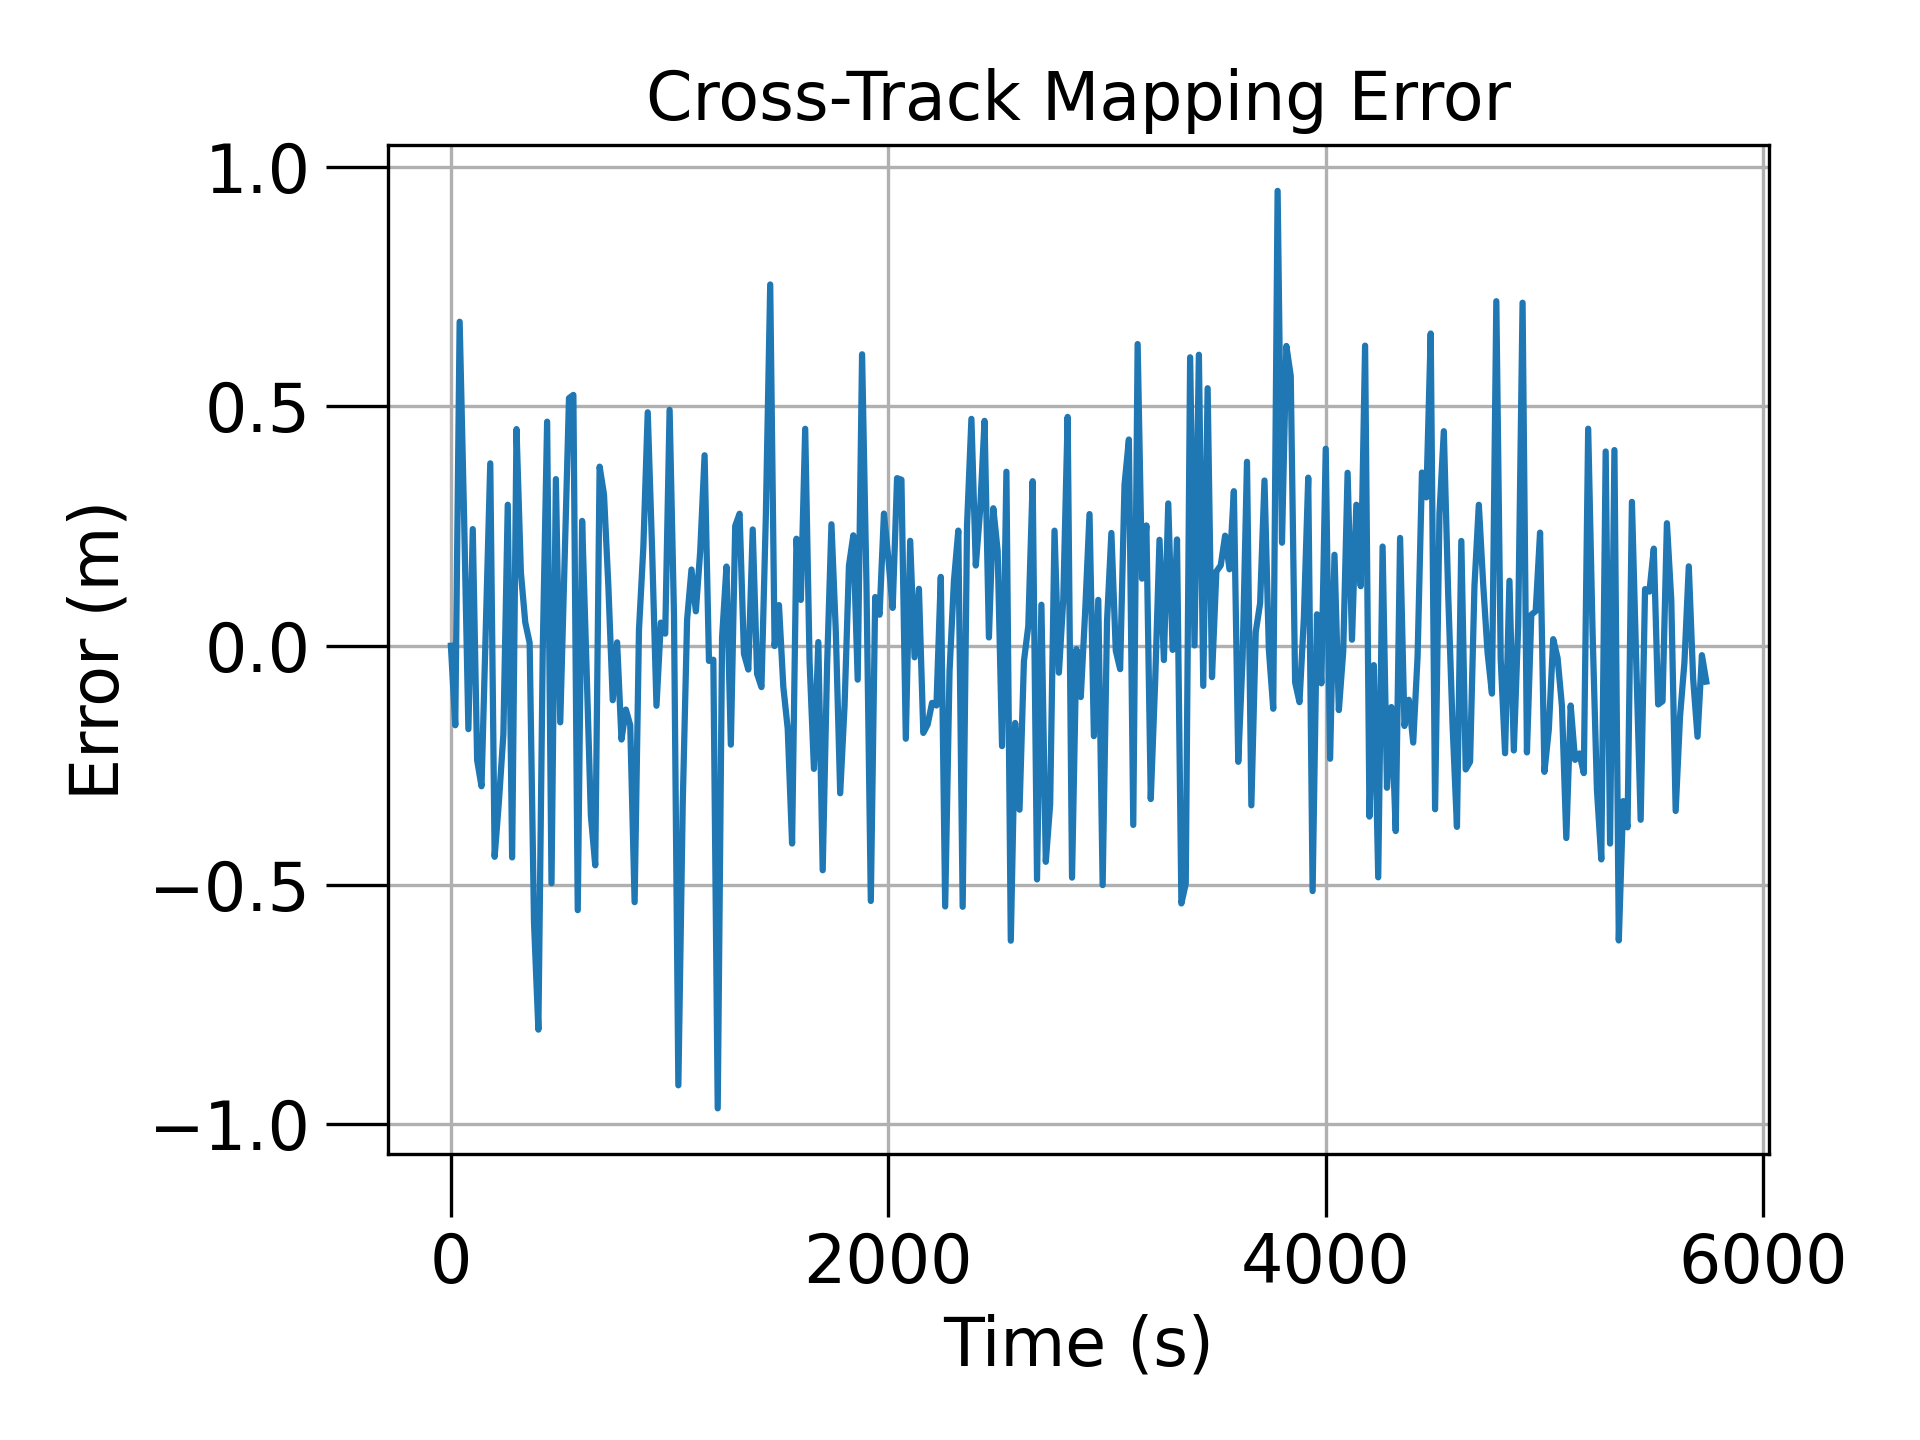
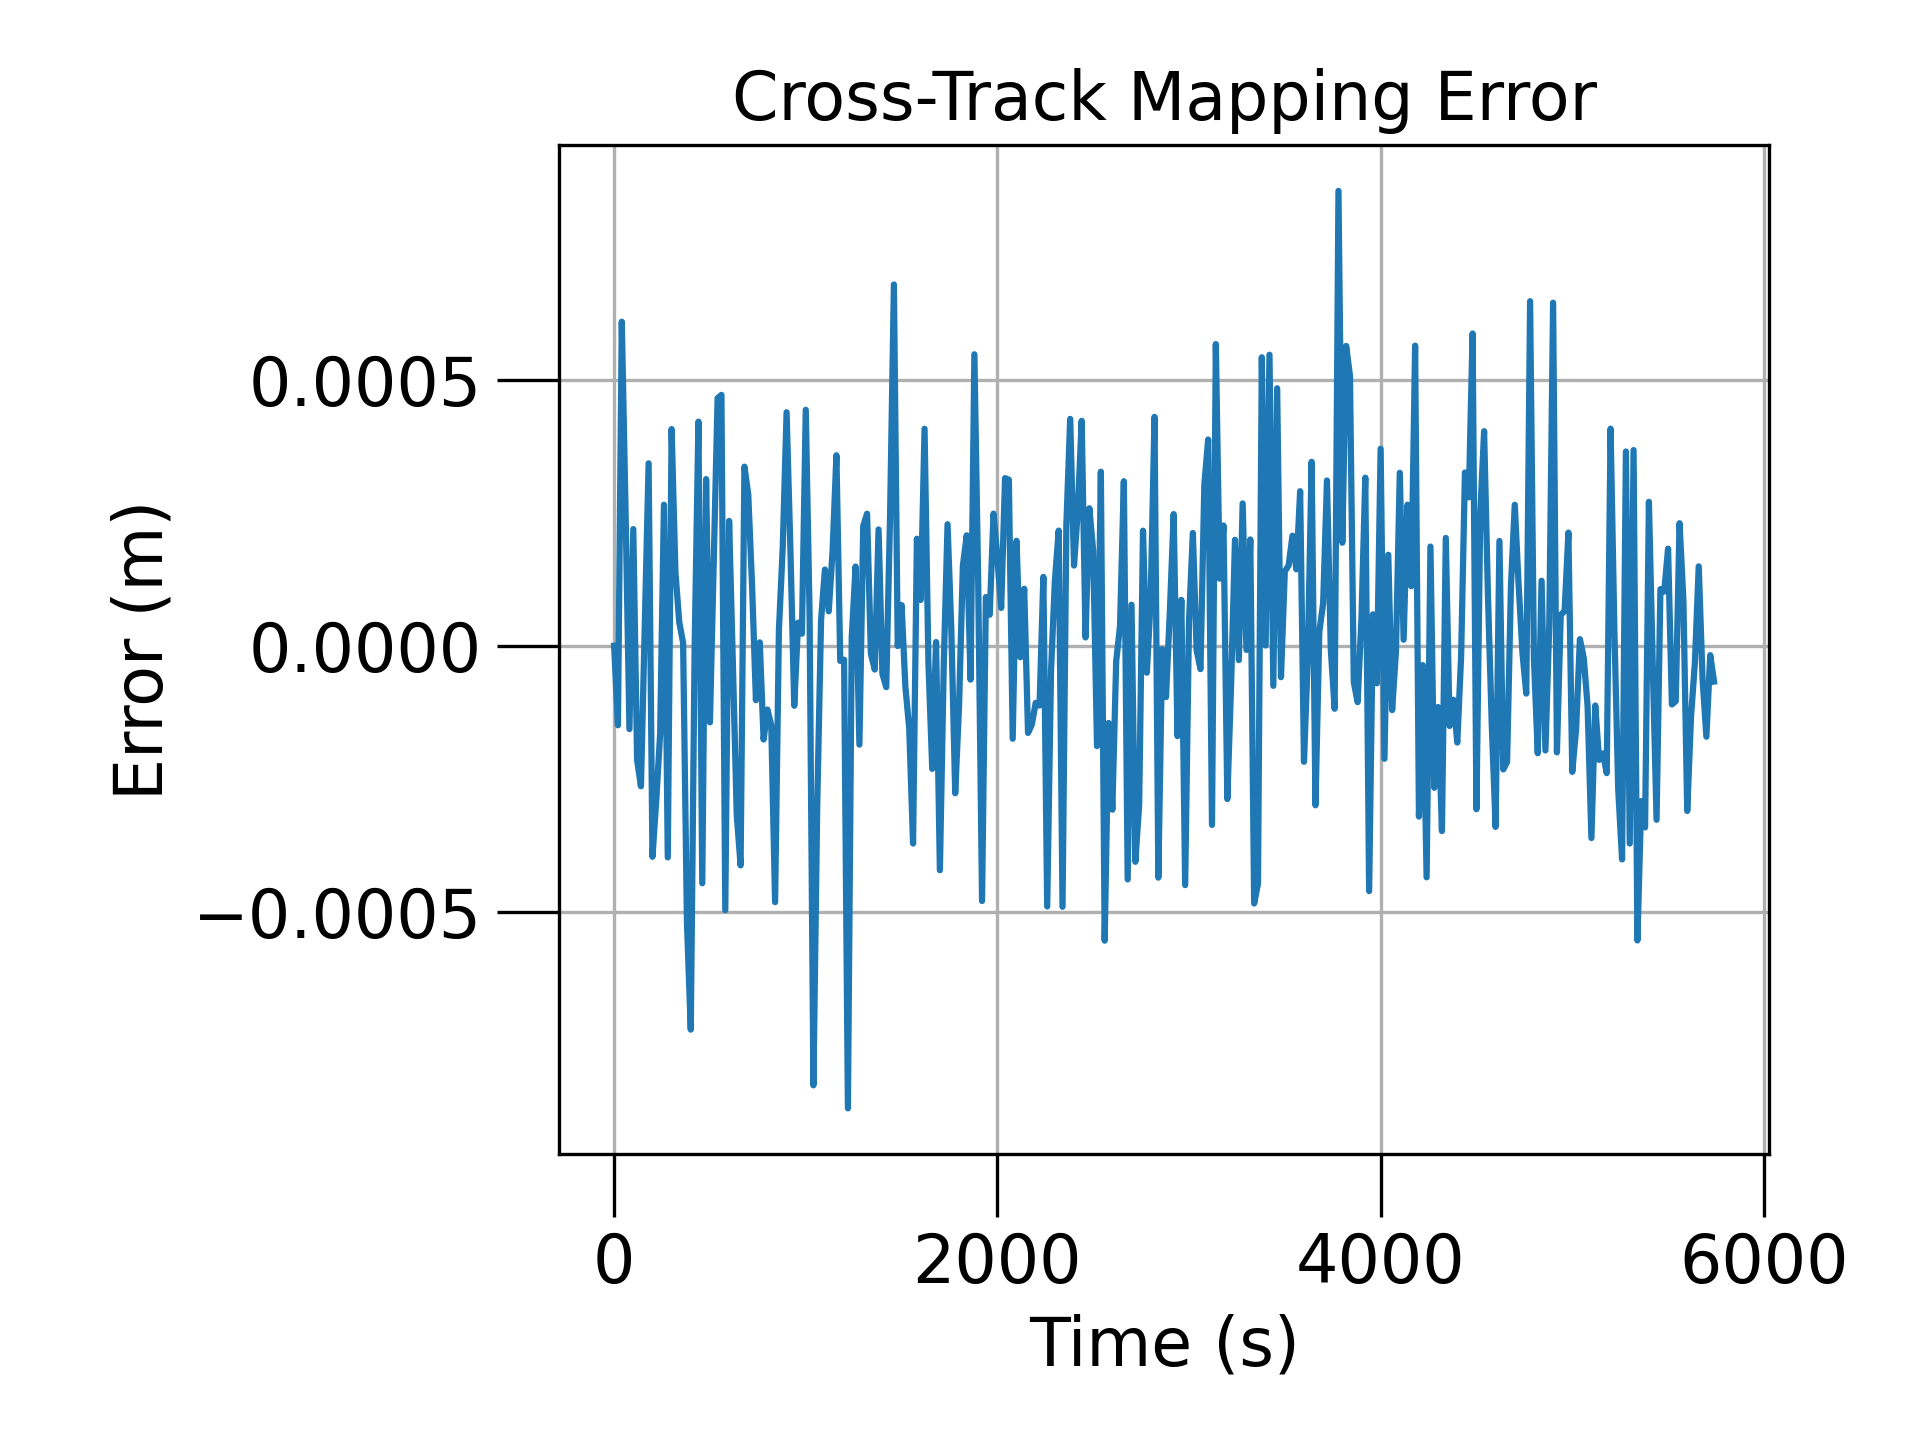
Added attitude errors for mapping budget

diff --git a/orbit_simulation.py b/orbit_simulation.py
@@ -127,7 +127,7 @@ def orbit_simulation(
     raw_r = [[], [], []]
     time_steps = []    
     gnss_times = []
-    mappings = [[], [], []]
+    mappings = [[], [], [], [], []]
     
     
     for r_true, v_true, attitude_true, t in satellite:
@@ -164,11 +164,11 @@ def orbit_simulation(
         # )
         
         # TODO: Add when attitude is done
-        in_track, cross_track, radial = mapping_budget(
+        in_track, cross_track, radial, azimuth, nadir, = mapping_budget(
             ekf_r,
             r_true,
             v_true,
-            attitude_true,      # needs to be converted to euhler (in quarternions)
+            attitude_true,  # needs to be converted to euler (currently in quarternions)
             att_estimation
         )
         
@@ -181,42 +181,18 @@ def orbit_simulation(
         v_residuals[2].append(v_true[2] - ekf_v[2])
         
         time_steps.append(t)
-        
-        # Mapping accuracies
-        in_track, cross_track, radial = ot.ECI_to_mapping_error(
-            ekf_r,
-            r_true,
-            v_true
-        )
+    
         # print("Current attitude: ", satellite.current_attitude)
         att_residuals[0].append(satellite.current_attitude[0])
         att_residuals[1].append(satellite.current_attitude[1])
         att_residuals[2].append(satellite.current_attitude[2])
         att_residuals[3].append(satellite.current_attitude[3])
-        
-        R_H = np.linalg.norm(ekf_r) - const.R_EARTH
-        R_T = const.R_EARTH
-        R_S = const.R_EARTH + R_H
-        
-        eta_rad = np.arcsin((1/2) * (const.R_EARTH / R_S))
-        eta_deg = np.rad2deg(eta_rad)
-        
-        lam_deg = 90 - elevation_deg - eta_deg
-        lam_rad = np.deg2rad(lam_deg)
-        
-        phi_deg = 90
-        phi_rad = np.deg2rad(phi_deg)
-        
-        H_mapping = np.arcsin(np.sin(lam_rad) * np.sin(phi_rad))
-        G_mapping = np.arcsin(np.sin(lam_rad) * np.cos(phi_rad))
-        
-        intrack_error = in_track * R_T / R_S * np.cos(H_mapping)
-        crosstrack_error = cross_track * R_T / R_S * np.cos(G_mapping)
-        radial_error = radial * np.sin(eta_rad) / np.sin(elevation_deg)
-        
-        mappings[0].append(intrack_error)
-        mappings[1].append(crosstrack_error)
-        mappings[2].append(radial_error)
+
+        mappings[0].append(in_track)
+        mappings[1].append(cross_track)
+        mappings[2].append(radial)
+        mappings[3].append(azimuth)
+        mappings[4].append(nadir)
         
         
     create_od_results(
@@ -261,6 +237,26 @@ def orbit_simulation(
     
     radial_fig.tight_layout()
     radial_fig.savefig("figures/od_mapping_radial.png")
+
+    in_track_fig, in_track_ax = plt.subplots()
+    in_track_ax.plot(time_steps, mappings[3])
+    
+    in_track_ax.set_title("Azimuth Mapping Error")
+    in_track_ax.set_xlabel("Time (s)")
+    in_track_ax.set_ylabel("Error (m)")
+    
+    in_track_fig.tight_layout()
+    in_track_fig.savefig("figures/att_mapping_azimuth.png")
+
+    in_track_fig, in_track_ax = plt.subplots()
+    in_track_ax.plot(time_steps, mappings[4])
+    
+    in_track_ax.set_title("Nadir Mapping Error")
+    in_track_ax.set_xlabel("Time (s)")
+    in_track_ax.set_ylabel("Error (m)")
+    
+    in_track_fig.tight_layout()
+    in_track_fig.savefig("figures/att_mapping_nadir.png")
     
     plt.show()
     
@@ -460,10 +456,9 @@ def create_att_results( # ------------------------------------------------------
     """
     """
     startup_plotting()
-    print("Current Attitude:", att_residuals)
-
-    print("Size of time:", len(time_steps))
-    print("Size of att_residuals[0]:", len(att_residuals[0]))
+    # print("Current Attitude:", att_residuals)
+    # print("Size of time:", len(time_steps))
+    # print("Size of att_residuals[0]:", len(att_residuals[0]))
 
     attw_fig, attw_ax = plt.subplots()
     attw_ax.plot(time_steps[1:], att_residuals[0][1:])
@@ -624,10 +619,18 @@ def calculate_rms(
     rms = math.sqrt(sum_of_squares / n)
     return rms
 
-def mapping_budget(r_eci, r_true, v_true, euler_truths, euler_estimate):
+def mapping_budget(
+    r_eci, 
+    r_true, 
+    v_true, 
+    att_true, 
+    att_estimate
+):
+    
+    # print("att_true:", att_true)
 
     delta_I, delta_C, delta_R = ot.ECI_to_mapping_error(r_eci, r_true, v_true)
-    delta_azimuth, delta_elevation = ot.ECI_to_azimuth_error(euler_truths, euler_estimate)
+    delta_azimuth, delta_elevation = ot.ECI_to_azimuth_error(att_true, att_estimate)
 
 
     R_E = 6371  # km
@@ -679,7 +682,7 @@ def mapping_budget(r_eci, r_true, v_true, euler_truths, euler_estimate):
     rms = calculate_rms(data)
 
     # return rms
-    return intrack_error, crosstrack_error, radial_error
+    return intrack_error, crosstrack_error, radial_error, azimuth_error, nadir_error
 
 def attitude_NLLS_algo_function(
     time: float,

diff --git a/spacesim/orbital_transforms.py b/spacesim/orbital_transforms.py
@@ -591,19 +591,19 @@ def ECI_to_mapping_error(
     return delta_I, delta_C, delta_R
 
 def ECI_to_azimuth_error(
-    euler_truths: np.ndarray,
-    euler_estimate: np.ndarray
+    att_truth: np.ndarray,
+    att_estimate: np.ndarray
 ) -> tuple[float, float]:
     """Finds the Azimuth and Elevation errors of a 
     satellite. Used for determining mapping error.
 
     Args:
-        euler_truths (np.ndarray): Propagated euler truths
-        euler_estimate (np.ndarray): Estimated euler from NLLS
+        att_truth (np.ndarray): Propagated euler truths
+        att_estimate (np.ndarray): Estimated euler from NLLS
         
 
     Returns:
-        tuple[float, float, float]: Azimuth error, Elevation error.
+        tuple[float, float]: Azimuth error, Elevation error.
     """
 
     # # Errors from roll/pitch/yaw over time with Weightings
@@ -616,5 +616,5 @@ def ECI_to_azimuth_error(
 
     # return delta_azimuth, delta_elevation
 
-    return 0, 0
+    return 0.2, 0.5
 
